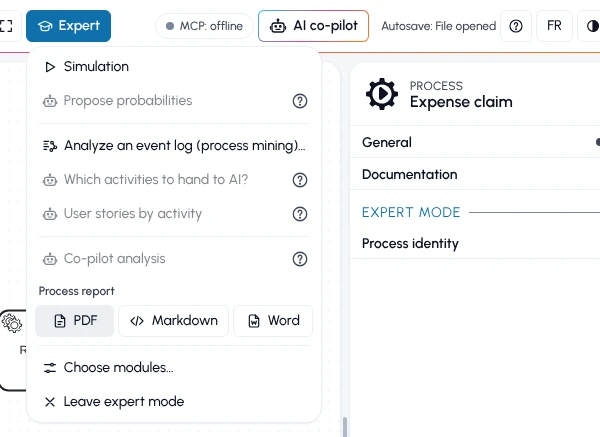
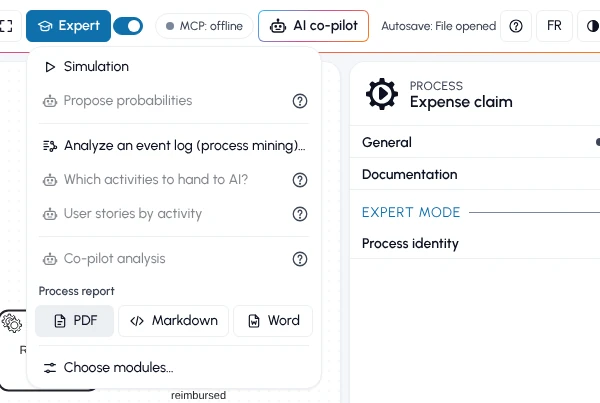
Add a switch next to the Expert button to turn the mode on or off in one click
The Expert button keeps its menu, and picking a command still turns the
mode on. The switch replaces the Leave expert mode entry of the menu.
Turning the mode off during a simulation stops it, as before.

diff --git a/aide.html b/aide.html
@@ -770,8 +770,8 @@ Pour finir : vérifie le diagramme, corrige ce qui échoue et résume le process
 
       <section id="experts-bpmn" class="expert-part">
         <h2>Activer le mode Expert<span class="ico" data-icon="expert" aria-hidden="true"></span></h2>
-        <p><span class="uib"><span class="ico" data-icon="expert" aria-hidden="true"></span>Expert</span>, dans la barre d'outils, ouvre un menu avec les commandes des modules allumés. La première commande choisie active le mode : le bouton passe en bleu, et le navigateur s'en souvient jusqu'à <span class="uib"><span class="ico" data-icon="close" aria-hidden="true"></span>Quitter le mode Expert</span>. Les commandes qui passent par le co-pilote restent grisées tant qu'aucun modèle n'est réglé.</p>
-        <figure><img src="/src/help/img/fr-menu-expert.webp" width="600" height="437" alt="Le bouton Expert en bleu et son menu ouvert en trois groupes : simulation, analyses par activité, puis Analyse du Co-pilote et les boutons PDF, Markdown et Word du rapport de processus." loading="lazy" /><figcaption>Le menu Expert en trois groupes : simulation, analyses par activité, rapport de processus.</figcaption></figure>
+        <p>Le petit interrupteur collé à droite du bouton <span class="uib"><span class="ico" data-icon="expert" aria-hidden="true"></span>Expert</span>, dans la barre d'outils, allume ou éteint le mode en un clic : le bouton passe en bleu, les sections expertes apparaissent dans le panneau Processus, et le navigateur s'en souvient. <span class="uib"><span class="ico" data-icon="expert" aria-hidden="true"></span>Expert</span> ouvre le menu des modules allumés, et choisir une de ses commandes allume aussi le mode. Les commandes qui passent par le co-pilote restent grisées tant qu'aucun modèle n'est réglé.</p>
+        <figure><img src="/src/help/img/fr-menu-expert.webp" width="600" height="403" alt="Le bouton Expert en bleu et son menu ouvert en trois groupes : simulation, analyses par activité, puis Analyse du Co-pilote et les boutons PDF, Markdown et Word du rapport de processus." loading="lazy" /><figcaption>Le menu Expert en trois groupes : simulation, analyses par activité, rapport de processus.</figcaption></figure>
         <h3 id="modules">Choisir les modules<span class="ico" data-icon="modules" aria-hidden="true"></span></h3>
         <p><span class="uib"><span class="ico" data-icon="modules" aria-hidden="true"></span>Choisir les modules…</span>, en bas du menu, allume ou éteint chaque fonction. Le menu et le panneau Processus ne montrent que les modules allumés. Par défaut, tout est allumé sauf l'export pour Camunda et les tables de décision. La carte de chaleur demande la simulation.</p>
         <figure><img src="/src/help/img/fr-modules-experts.webp" width="1040" height="2120" alt="La fenêtre Modules experts : Simulation de jetons, Carte de chaleur, Rapport de processus, Analyse de journal d'événements, Potentiel d'IA, Risques et conformité, Récits utilisateur, Export pour Camunda et Tables de décision (DMN), chacun avec son interrupteur, sa ligne d'explication et son lien vers l'aide." loading="lazy" /><figcaption>La fenêtre Modules experts : ici, l'export pour Camunda et les tables de décision sont éteints.</figcaption></figure>

diff --git a/help.html b/help.html
@@ -770,8 +770,8 @@ To finish: check the diagram, fix what fails and sum up the process in five line
 
       <section id="bpmn-experts" class="expert-part">
         <h2>Turn on Expert mode<span class="ico" data-icon="expert" aria-hidden="true"></span></h2>
-        <p><span class="uib"><span class="ico" data-icon="expert" aria-hidden="true"></span>Expert</span>, in the toolbar, opens a menu with the commands of the modules turned on. The first command you pick turns the mode on: the button turns blue, and the browser remembers it until <span class="uib"><span class="ico" data-icon="close" aria-hidden="true"></span>Leave expert mode</span>. Commands that go through the co-pilot stay greyed out until a model is set.</p>
-        <figure><img src="/src/help/img/en-menu-expert.webp" width="600" height="437" alt="The blue Expert button and its open menu in three groups: simulation, analyses by activity, then Co-pilot analysis and the PDF, Markdown and Word buttons of the process report." loading="lazy" /><figcaption>The Expert menu in three groups: simulation, analyses by activity, process report.</figcaption></figure>
+        <p>The small switch right of the <span class="uib"><span class="ico" data-icon="expert" aria-hidden="true"></span>Expert</span> button, in the toolbar, turns the mode on or off in one click: the button turns blue, the expert sections show in the Process panel, and the browser remembers it. <span class="uib"><span class="ico" data-icon="expert" aria-hidden="true"></span>Expert</span> opens the menu of the modules turned on, and picking one of its commands also turns the mode on. Commands that go through the co-pilot stay greyed out until a model is set.</p>
+        <figure><img src="/src/help/img/en-menu-expert.webp" width="600" height="403" alt="The blue Expert button and its open menu in three groups: simulation, analyses by activity, then Co-pilot analysis and the PDF, Markdown and Word buttons of the process report." loading="lazy" /><figcaption>The Expert menu in three groups: simulation, analyses by activity, process report.</figcaption></figure>
         <h3 id="modules">Choose modules<span class="ico" data-icon="modules" aria-hidden="true"></span></h3>
         <p><span class="uib"><span class="ico" data-icon="modules" aria-hidden="true"></span>Choose modules…</span>, at the bottom of the menu, turns each feature on or off. The menu and the Process panel only show the modules turned on. By default, everything is on except the Camunda export and decision tables. The heatmap needs the simulation.</p>
         <figure><img src="/src/help/img/en-modules-experts.webp" width="1040" height="2048" alt="The Expert modules window: Token simulation, Heatmap, Process report, Event log analysis, AI potential, Risks and compliance, User stories, Camunda export and Decision tables (DMN), each with its switch, a line of explanation and a link to the help." loading="lazy" /><figcaption>The Expert modules window: here, the Camunda export and decision tables are off.</figcaption></figure>

diff --git a/src/theme/leylines.css b/src/theme/leylines.css
@@ -1703,9 +1703,8 @@ html:not(.mod-process-mining):not(.mod-ai-potential):not(.mod-user-stories):not(
 html:not(.mod-simulation) #expert-menu .menu-group-analyses::before,
 html:not(.mod-simulation):not(.mod-process-mining):not(.mod-ai-potential):not(.mod-user-stories):not(.mod-dmn) #expert-menu .menu-group-report::before,
 html:not(.mod-simulation):not(.mod-process-mining):not(.mod-ai-potential):not(.mod-user-stories):not(.mod-dmn):not(.mod-report) #expert-menu .menu-group-end::before { display: none; }
-/* Simulation en cours : « Quitter le mode Expert », les entrées du Co-pilote (le canevas est
+/* Simulation en cours : « Choisir les modules », les entrées du Co-pilote (le canevas est
    verrouillé) et les séparateurs s'effacent du menu (src/main.js). */
-#expert-menu.simulating #btn-expert-off,
 #expert-menu.simulating #btn-expert-modules,
 #expert-menu.simulating .menu-row,
 #expert-menu.simulating .menu-group::before { display: none !important; }
@@ -1751,6 +1750,22 @@ dialog .dlg-close:focus-visible,
 /* ── Bouton Expert (src/expert-mode.js), « .btn » pour passer devant « #toolbar > .btn.active:not(#btn-chat) » : plein en orange quand le mode est actif, avec un
    point lumineux tant qu'une simulation tourne. ── */
 #toolbar > #btn-expert { position: relative; }
+/* Interrupteur du mode Expert, collé à droite du bouton (src/expert-mode.js) : un clic allume
+   ou éteint le mode, sans passer par le menu. */
+#toolbar > .expert-switch {
+  position: relative; flex: none; width: 30px; height: 18px; margin-left: -2px; padding: 0;
+  border: 1px solid var(--line); border-radius: 999px; background: var(--surface-sunken); cursor: pointer;
+  transition: background-color .15s, border-color .15s;
+}
+#toolbar > .expert-switch .expert-switch-knob {
+  position: absolute; top: 2px; left: 2px; width: 12px; height: 12px; border-radius: 50%;
+  background: var(--ink-muted); transition: transform .15s, background-color .15s;
+}
+#toolbar > .expert-switch[aria-checked="true"] { background: var(--accent); border-color: var(--accent); }
+#toolbar > .expert-switch[aria-checked="true"] .expert-switch-knob { transform: translateX(12px); background: var(--on-accent); }
+#toolbar > .expert-switch:hover { border-color: var(--ink-muted); }
+#toolbar > .expert-switch:focus-visible { outline: 2px solid var(--focus-ring); outline-offset: 2px; }
+@media (prefers-reduced-motion: reduce) { #toolbar > .expert-switch, #toolbar > .expert-switch .expert-switch-knob { transition: none; } }
 #toolbar > #btn-expert.btn.active { background: var(--accent); border-color: var(--accent); color: var(--on-accent); font-weight: 600; }
 #toolbar > #btn-expert.btn.active:hover { filter: brightness(1.08); }
 #toolbar > #btn-expert.running::after {

diff --git a/src/expert-mode.js b/src/expert-mode.js
@@ -1,7 +1,7 @@
 // Mode expert : les fonctions avancées, masquées par défaut pour ne pas encombrer l'éditeur.
-// Le bouton Expert de la barre, toujours visible, ouvre un menu : Simulation, Rapport de
-// processus (PDF ou Markdown) et Quitter le mode Expert. Choisir une entrée active le mode,
-// et le bouton reste plein tant qu'il est actif. Le mode montre :
+// Le bouton Expert de la barre, toujours visible, ouvre le menu des modules allumés. Le petit
+// interrupteur collé à sa droite allume ou éteint le mode en un clic, et choisir une entrée du
+// menu l'allume aussi. Le bouton reste plein tant que le mode est actif. Le mode montre :
 //   - la simulation de jetons, la carte de chaleur et « Lancer N jetons » (src/heatmap.js) ;
 //   - le champ Probabilité (%) du panneau Processus (src/probability-panel.js).
 // Tout élément marqué .expert-only, ou ciblé dans leylines.css, disparaît hors du mode.
@@ -18,12 +18,17 @@ function read() {
 
 let on = read()
 let button = null
+let switchEl = null
 document.documentElement.classList.toggle('expert', on)
 
 export const isExpert = () => on
 
 function apply() {
   document.documentElement.classList.toggle('expert', on)
+  if (switchEl) {
+    switchEl.setAttribute('aria-checked', String(on))
+    switchEl.title = on ? T('Turn expert mode off', 'Éteindre le mode Expert') : T('Turn expert mode on', 'Allumer le mode Expert')
+  }
   if (!button) return
   button.classList.toggle('active', on)
   button.title = on
@@ -40,8 +45,9 @@ export function setExpert(value) {
   window.dispatchEvent(new CustomEvent(EXPERT_EVENT, { detail: { on } }))
 }
 
-export function setupExpertMode({ button: expertButton, offButton }) {
+export function setupExpertMode({ button: expertButton, switchButton }) {
   button = expertButton
+  switchEl = switchButton || null
   apply()
-  offButton?.addEventListener('click', () => setExpert(false))
+  switchEl?.addEventListener('click', () => setExpert(!on))
 }

diff --git a/index.html b/index.html
@@ -91,6 +91,7 @@
     <button class="btn" id="btn-layout" data-icon="layout" title="Tidy up the layout">Tidy up</button>
     <button class="btn" id="btn-present" data-icon="present" title="Presentation: the diagram alone, full screen">Presentation</button>
     <button class="btn" id="btn-expert" data-icon="expert" popovertarget="expert-menu" aria-haspopup="menu" title="Expert mode: token simulation and process report">Expert</button>
+    <button type="button" class="expert-switch" id="expert-switch" role="switch" aria-checked="false" aria-label="Expert mode" title="Turn expert mode on"><span class="expert-switch-knob" aria-hidden="true"></span></button>
     <div id="expert-menu" class="menu" popover role="menu">
       <div class="menu-group menu-group-simulation mod-simulation-only" role="group">
         <button class="btn" id="btn-simulation" data-icon="play" title="Run tokens through the process, with the heatmap and branch probabilities" role="menuitem">Simulation</button>
@@ -113,7 +114,6 @@
       </div>
       <div class="menu-group menu-group-end" role="group">
         <button class="btn" id="btn-expert-modules" data-icon="modules" title="Turn each expert function on or off" role="menuitem">Choose modules…</button>
-        <button class="btn expert-only" id="btn-expert-off" data-icon="close" title="Hide all expert functions" role="menuitem">Leave expert mode</button>
       </div>
     </div>
     <span id="autosave-status">Autosave: —</span>

diff --git a/src/main.js b/src/main.js
@@ -858,8 +858,7 @@ modeler.on('tokenSimulation.toggleMode', ({ active }) => {
   simButton.classList.toggle('active', !!active)
   document.getElementById('btn-expert').classList.toggle('running', !!active)
   // Pendant une simulation, le menu ne propose que « Arrêter la simulation » : le canevas
-  // est verrouillé, et l'arrêt garde le mode Expert pour régler les probabilités. « Quitter
-  // le mode Expert » revient une fois la simulation arrêtée.
+  // est verrouillé, et l'arrêt garde le mode Expert pour régler les probabilités.
   document.getElementById('expert-menu').classList.toggle('simulating', !!active)
 })
 simButton.addEventListener('click', () => {
@@ -887,7 +886,7 @@ function download(content, filename, type) {
 }
 
 setupThemeToggle(document.getElementById('btn-theme'))
-setupExpertMode({ button: document.getElementById('btn-expert'), offButton: document.getElementById('btn-expert-off') })
+setupExpertMode({ button: document.getElementById('btn-expert'), switchButton: document.getElementById('expert-switch') })
 setupExpertModules(document.getElementById('btn-expert-modules'))
 applyStaticTexts(() => { clearTimeout(saveTimer); return autosave({ quiet: true }) })
 // Le logo de la barre ouvre la page vitrine Leylines dans un nouvel onglet (index.html) :

diff --git a/src/i18n/static-texts.js b/src/i18n/static-texts.js
@@ -62,7 +62,7 @@ const FR = {
   '#btn-simulation': { title: 'Faire circuler des jetons dans le processus, avec la carte de chaleur et les probabilités des branches' },
   '#btn-present': { text: 'Présentation', title: 'Présentation : le diagramme seul, en plein écran' },
   '#btn-expert': { text: 'Expert', title: 'Mode Expert : simulation de jetons et rapport de processus' },
-  '#btn-expert-off': { text: 'Quitter le mode Expert', title: 'Masquer la simulation, la carte de chaleur et les probabilités des branches' },
+  '#expert-switch': { 'aria-label': 'Mode Expert' },
   '#autosave-status': { text: 'Sauvegarde auto : —' },
   '#btn-install': { title: 'Installer BPMN-Pilot en PWA', 'aria-label': 'Installer la PWA' },
   '#btn-help': { href: 'aide.html', title: "Aide : comment utiliser l'éditeur", 'aria-label': 'Aide' },
